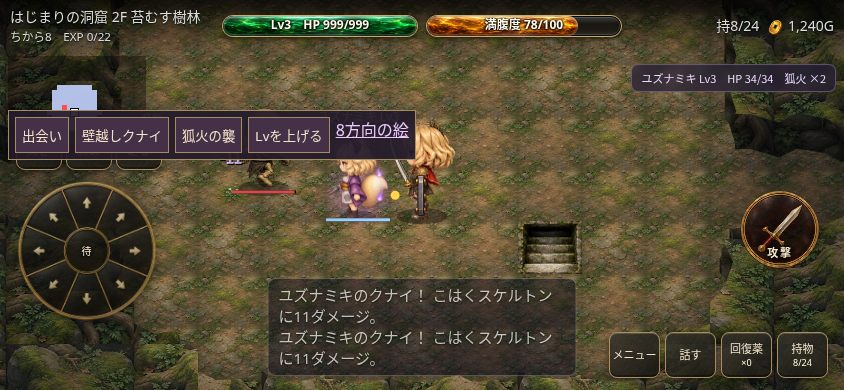
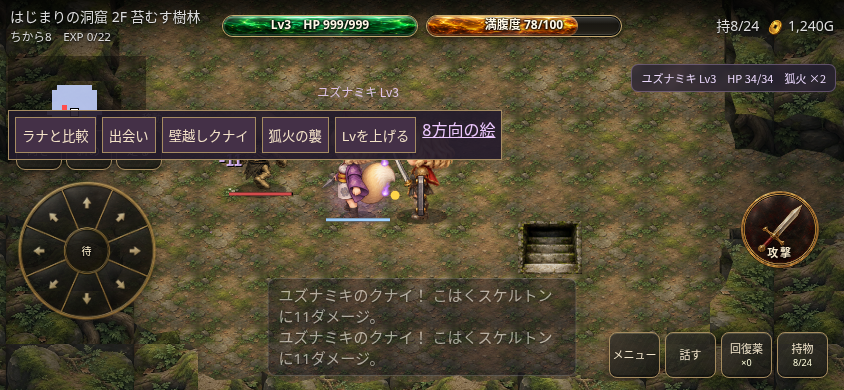
Align Yuzunamiki body size with Lana using shared render scale

diff --git a/fushigi-allies-v1/stage.js b/fushigi-allies-v1/stage.js
@@ -1,11 +1,13 @@
 (()=>{
- const tools=document.createElement('div');tools.id='allyReviewTools';tools.innerHTML='<button id="allyMeet">出会い</button><button id="allyWall">壁越しクナイ</button><button id="allyHaste">狐火の襲</button><button id="allyLevel">Lvを上げる</button><a href="fushigi-allies-v1/preview.html" style="color:#edc8ff">8方向の絵</a>';document.body.append(tools);
+ const tools=document.createElement('div');tools.id='allyReviewTools';tools.innerHTML='<button id="allySize">ラナと比較</button><button id="allyMeet">出会い</button><button id="allyWall">壁越しクナイ</button><button id="allyHaste">狐火の襲</button><button id="allyLevel">Lvを上げる</button><a href="fushigi-allies-v1/preview.html" style="color:#edc8ff">8方向の絵</a>';document.body.append(tools);
  function setup(mode='meet'){
   AllySystem.reset();ExperienceReview.setup('room');floorItems=[];traps=[];player.x=player.vx=12;player.y=player.vy=10;player.face=[-1,0];player.hp=player.maxhp=999;
   const a=AllySystem.make(11,10);AllySystem.state.actor=a;a.lv=3;a.maxhp=a.hp=34;
-  if(mode!=='meet'){a.following=true;AllySystem.state.used=true;const hp=999;enemies=[{kind:'skeleton_2',x:9,y:10,vx:9,vy:10,hp,maxhp:hp,aware:true,st:{},flash:0}];if(mode==='wall')map[10][10]=WALL;if(mode==='haste'){a.boost=4;a.cooldown=12;a.castStart=now();}}
+  if(mode==='size'){a.following=true;AllySystem.state.used=true;player.face=[1,1];a.face=[1,1];}
+  else if(mode!=='meet'){a.following=true;AllySystem.state.used=true;const hp=999;enemies=[{kind:'skeleton_2',x:9,y:10,vx:9,vy:10,hp,maxhp:hp,aware:true,st:{},flash:0}];if(mode==='wall')map[10][10]=WALL;if(mode==='haste'){a.boost=4;a.cooldown=12;a.castStart=now();}}
   window.AllyReview={setup};updateVis();render();
  }
+ document.getElementById('allySize').onclick=()=>setup('size');
  document.getElementById('allyMeet').onclick=()=>setup('meet');document.getElementById('allyWall').onclick=()=>setup('wall');document.getElementById('allyHaste').onclick=()=>setup('haste');document.getElementById('allyLevel').onclick=()=>{if(!AllySystem.state.actor?.following)setup('haste');AllySystem.gainExp(expNeed(AllySystem.state.actor.lv));render();};
- const wait=setInterval(()=>{if(window.ExperienceReview&&ApprovedHero.ready&&CaveTerrain.ready&&DungeonExperience.ready&&MonsterSprites.ready&&AllySystem.state.ready){clearInterval(wait);setup();}},100);
+ const wait=setInterval(()=>{if(window.ExperienceReview&&ApprovedHero.ready&&CaveTerrain.ready&&DungeonExperience.ready&&MonsterSprites.ready&&AllySystem.state.ready){clearInterval(wait);setup(new URLSearchParams(location.search).has('size')?'size':'meet');}},100);
 })();

diff --git a/assets/allies.js b/assets/allies.js
@@ -3,7 +3,7 @@
  const D=['S','SW','W','NW','N','NE','E','SE'];
  const src=typeof document!=='undefined'&&document.currentScript?.src;
  const base=src?new URL('../fushigi-allies-v1/',src).href:'fushigi-allies-v1/';
- const state={actor:null,used:false,open:false,ready:false,error:null,images:{}};
+ const state={actor:null,used:false,open:false,renderScale:1.25,ready:false,error:null,images:{}};
  const distance=(a,b)=>Math.max(Math.abs(a.x-b.x),Math.abs(a.y-b.y));
  const at=(x,y)=>state.actor?.x===x&&state.actor?.y===y?state.actor:null;
  const stats=a=>({attack:Math.max(1,Math.round(playerAtk()+2+(a.lv-1)*.8)-(a.poison||0)),defense:Math.max(0,defBonus()-1+Math.floor((a.lv-1)/3)),maxhp:26+4*(a.lv-1)});
@@ -65,7 +65,7 @@
   if(choices.length){e.x=choices[0].x;e.y=choices[0].y;}return true;
  }
  async function load(redraw){try{const paths=D.flatMap(d=>[d+'.png',d+'-motion.png']);await Promise.all(paths.map(path=>new Promise((resolve,reject)=>{const im=new Image();im.onload=()=>{state.images[path]=im;resolve();};im.onerror=()=>reject(Error(path));im.src=base+'assets/'+path;})));state.ready=true;redraw();}catch(e){state.error=e.message;console.error('助っ人画像',e);redraw();}}
- function draw(g,a,t,camX,camY){const px=camX+a.vx*TS,py=camY+a.vy*tilePitchY(),s=TS*CHAR_K[charPref]/192,x=px+TS/2,y=py+tilePitchY();
+ function draw(g,a,t,camX,camY){const px=camX+a.vx*TS,py=camY+a.vy*tilePitchY(),s=TS*CHAR_K[charPref]*state.renderScale/192,x=px+TS/2,y=py+tilePitchY();
   g.fillStyle='rgba(0,0,0,.3)';g.beginPath();g.ellipse(x,y-5,TS*.28,TS*.09,0,0,Math.PI*2);g.fill();
   const attacking=a.attackStart!=null&&t-a.attackStart<300,walking=t<a.walkEnd,face=attacking?a.attackFace:a.face,d=MonsterSprites.direction(face||[0,1]);let image=state.images[d+'.png'],sx=0;
   if(attacking&&t-a.attackStart>=35&&t-a.attackStart<240){image=state.images[d+'-motion.png'];sx=256;}else if(walking&&Math.floor((t-a.walkStart)/80)%2===0){image=state.images[d+'-motion.png'];}

diff --git a/fushigi-allies-v1/game-review.html b/fushigi-allies-v1/game-review.html
@@ -84,7 +84,7 @@ canvas{display:block;touch-action:none}
 <link rel="stylesheet" href="assets/control-skin.css?v=brass-v1">
 <link rel="stylesheet" href="assets/compass-ui.css?v=lacquer-v3">
 <link rel="stylesheet" href="assets/gem-bars.css?v=gem-v1">
-<style>#reviewTools{display:none}#allyReviewTools{position:fixed;z-index:9;left:8px;top:110px;background:#231b2bed;border:1px solid #a58b62;padding:6px;display:flex;gap:6px;flex-wrap:wrap;max-width:95vw}#allyReviewTools button{min-height:36px;color:#f4e3c8;background:#443047;border:1px solid #a58b62}body.menu-visible #allyReviewTools{display:none}</style></head>
+<style>#reviewTools{display:none}#allyReviewTools{position:fixed;z-index:9;left:8px;top:110px;background:#231b2bed;border:1px solid #a58b62;padding:6px;display:flex;gap:6px;flex-wrap:wrap;max-width:95vw}#allyReviewTools button{min-height:36px;color:#f4e3c8;background:#443047;border:1px solid #a58b62}body.menu-visible #allyReviewTools{display:none}@media(orientation:landscape){#allyReviewTools{top:46px}}</style></head>
 <body>
 <div id="hud"><span id="where"></span><span id="bagc"></span><div id="bars"><div class="bar"><i id="hpf"></i><b id="hp"></b></div><div class="bar bl" id="blbar"><i id="blf"></i><b id="belly"></b></div></div></div>
 <div id="log"></div>
@@ -150,7 +150,7 @@ canvas{display:block;touch-action:none}
 <script src="assets/cave-terrain.js?v=wall-relief-v1"></script>
 <script src="fushigi-monsters-v1/monsters-renderer.js?v=motions-v1"></script>
 <link rel="stylesheet" href="assets/allies.css?v=yuzunamiki-v1">
-<script src="assets/allies.js?v=yuzunamiki-v1"></script>
+<script src="assets/allies.js?v=yuzunamiki-size-v2"></script>
 <script src="assets/monster-roster.js?v=families-v2"></script>
 <script src="assets/monster-families.js?v=families-v2"></script>
 <script src="assets/dungeon-experience.js?v=experience-v1"></script>

diff --git a/index.html b/index.html
@@ -149,7 +149,7 @@ canvas{display:block;touch-action:none}
 <script src="assets/cave-terrain.js?v=wall-relief-v1"></script>
 <script src="fushigi-monsters-v1/monsters-renderer.js?v=motions-v1"></script>
 <link rel="stylesheet" href="assets/allies.css?v=yuzunamiki-v1">
-<script src="assets/allies.js?v=yuzunamiki-v1"></script>
+<script src="assets/allies.js?v=yuzunamiki-size-v2"></script>
 <script src="assets/monster-roster.js?v=families-v2"></script>
 <script src="assets/monster-families.js?v=families-v2"></script>
 <script src="assets/dungeon-experience.js?v=experience-v1"></script>

diff --git a/fushigi-allies-v1/build_review.py b/fushigi-allies-v1/build_review.py
@@ -1,5 +1,5 @@
 from pathlib import Path
 P=Path(__file__).resolve().parent
 s=(P.parent/'index.html').read_text().replace('<head>','<head>\n<base href="../">',1).replace("const SAVE_KEY = 'fushigi_core_save_v1';","const SAVE_KEY = 'fushigi_yuzunamiki_review_v1';")
-s=s.replace('</head>','<style>#reviewTools{display:none}#allyReviewTools{position:fixed;z-index:9;left:8px;top:110px;background:#231b2bed;border:1px solid #a58b62;padding:6px;display:flex;gap:6px;flex-wrap:wrap;max-width:95vw}#allyReviewTools button{min-height:36px;color:#f4e3c8;background:#443047;border:1px solid #a58b62}body.menu-visible #allyReviewTools{display:none}</style></head>').replace('</body>','<script src="fushigi-experience-v1/review-tools.js"></script><script src="fushigi-allies-v1/stage.js"></script></body>')
+s=s.replace('</head>','<style>#reviewTools{display:none}#allyReviewTools{position:fixed;z-index:9;left:8px;top:110px;background:#231b2bed;border:1px solid #a58b62;padding:6px;display:flex;gap:6px;flex-wrap:wrap;max-width:95vw}#allyReviewTools button{min-height:36px;color:#f4e3c8;background:#443047;border:1px solid #a58b62}body.menu-visible #allyReviewTools{display:none}@media(orientation:landscape){#allyReviewTools{top:46px}}</style></head>').replace('</body>','<script src="fushigi-experience-v1/review-tools.js"></script><script src="fushigi-allies-v1/stage.js"></script></body>')
 (P/'game-review.html').write_text(s)

diff --git a/fushigi-allies-v1/README.md b/fushigi-allies-v1/README.md
@@ -33,7 +33,7 @@
 
 ## 画像と制作記録
 
-3Dガイド→方向別待機→同方向基準とポーズガイドを参照した動作の順に制作。8方向はすべて個別原画で、クナイの右手・花の左側を反転しない。待機8、歩行8、攻撃8の計24ポーズ。歩行／攻撃は専用1ポーズと基準待機を交互に表示する。足元(128,224)、256px、同一の共通倍率。原画の解像度差だけをシート全体で補正し、方向別の隠れた変形は使わない。
+3Dガイド→方向別待機→同方向基準とポーズガイドを参照した動作の順に制作。8方向はすべて個別原画で、クナイの右手・花の左側を反転しない。待機8、歩行8、攻撃8の計24ポーズ。歩行／攻撃は専用1ポーズと基準待機を交互に表示する。足元(128,224)、256px、同一の共通倍率。本編では耳を含めて登録したことによる体格差を補うため描画倍率1.25を全方向・全動作に共通適用する。原画・登録PNGは変更しない。原画の解像度差だけをシート全体で補正し、方向別の隠れた変形は使わない。
 
 左斜め待機が右を向いて出力されたため、SW専用原画で修正した。原画・修正前の服案・待機シート・動作シート・ガイドを保存。`generation-record.json` にプロンプト・参照とハッシュを記録する。`source-art/locked-idle-reference.png` は動作生成時の基準8方向（生成時のファイル名はlocked-idle-directions.png）、`locked-idle-directions.png` は最終登録画像。
 
@@ -53,3 +53,7 @@ node tests/harness.js index.html tests/test_mvp.js
 Pillow・numpy・Playwright・システムChromiumを使用。36項目の戦闘／成長／遭遇／同行検証、24ポーズの区別・透過余白・ハッシュ、横844×390と縦390×844で会話のフォーカス移動・加入・壁越し攻撃・実2回行動・状態メニューを検証。JavaScript例外なし。全ポーズと実表示は目視確認済み。既存MVPもALL OK（初回は既知のランダム生成による金の個数検証のみ失敗、再確認で成功）。`validation.json` と `all-poses.png`、縦横の画面画像を参照。
 
 本編の主人公・承認済み武器12種／盾10種・モンスター60種・音源を変更しない。武器サイズPR #9は別件のまま。
+
+## ラナに対する大きさの補正
+
+ユーザーの指摘で同倍率のSEを比較。ラナの不透明高さ200pxに対しユズナミキは185pxで、さらに耳の高さがその中に含まれるため人の頭・体は小さく見えた。描き直し前の説明を求められ、原画を変えず描画のみ1.25倍で補正。頭身の再生成は行わない。確認画面の「ラナと比較」または `game-review.html?size=1` で同じ床に並べて確認できる。

diff --git a/docs/SPRITE_PRODUCTION_HANDOVER.md b/docs/SPRITE_PRODUCTION_HANDOVER.md
@@ -1,5 +1,10 @@
 # 承認済みキャラクター・武器・盾の制作引き継ぎ
 
+## ユズナミキの表示サイズ補正（2026-10-21）
+
+ユーザーから「ラナより小さい／頭身がおかしい？ 描き直しなら先に教えて」と指摘。比較で、耳の先まで含めた高さ基準により体が小さくなっていると判明。原画の再生成はせず、描画倍率を全方向・全動作で1.25倍に補正。描き直しが必要になれば先にユーザーへ伝える。`fushigi-allies-v1/game-review.html?size=1` にラナとの比較配置を用意。
+
+
 ## 助っ人初版：ユズナミキ（2026-10-21）
 
 ユーザーがランダム遭遇する助っ人を提案し、ユズナミキ（忍者、クナイ2マス障害物越し、本人限定の倍速「狐火の襲」）を指定。追加指示「服装は添付した着物を簡略化」を優先し、初回の忍者服案は不採用。白〜灰の着物・黒い柄・金帯・紫羽織の狐耳姿で制作。8方向の待機・歩行・攻撃、24ポーズを本編へ接続。武器・髪飾りの左右を守るため反転なし。

diff --git a/docs/HANDOVER.md b/docs/HANDOVER.md
@@ -1,5 +1,10 @@
 # 引き継ぎ資料（Fushigi：シレン風・個人用）
 
+## ユズナミキの表示サイズ補正（2026-10-21）
+
+ユーザーから「ラナより小さい／頭身がおかしい？ 描き直しなら先に教えて」と指摘。比較で、耳の先まで含めた高さ基準により体が小さくなっていると判明。原画の再生成はせず、描画倍率を全方向・全動作で1.25倍に補正。描き直しが必要になれば先にユーザーへ伝える。`fushigi-allies-v1/game-review.html?size=1` にラナとの比較配置を用意。
+
+
 ## 助っ人初版：ユズナミキ（2026-10-21）
 
 ユーザーがランダム遭遇する助っ人を提案し、ユズナミキ（忍者、クナイ2マス障害物越し、本人限定の倍速「狐火の襲」）を指定。追加指示「服装は添付した着物を簡略化」を優先し、初回の忍者服案は不採用。白〜灰の着物・黒い柄・金帯・紫羽織の狐耳姿で制作。8方向の待機・歩行・攻撃、24ポーズを本編へ接続。武器・髪飾りの左右を守るため反転なし。
